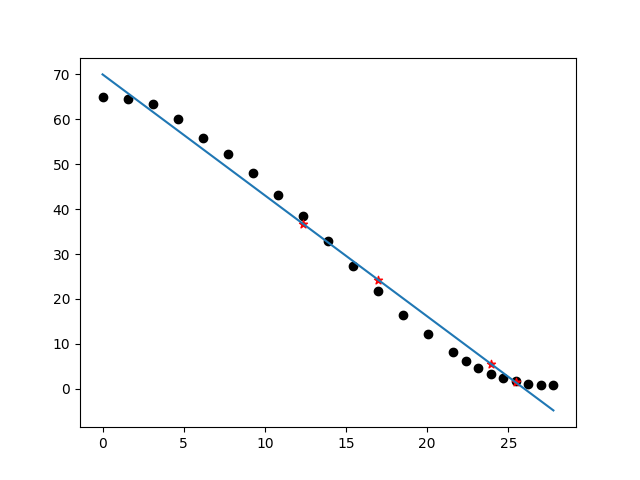
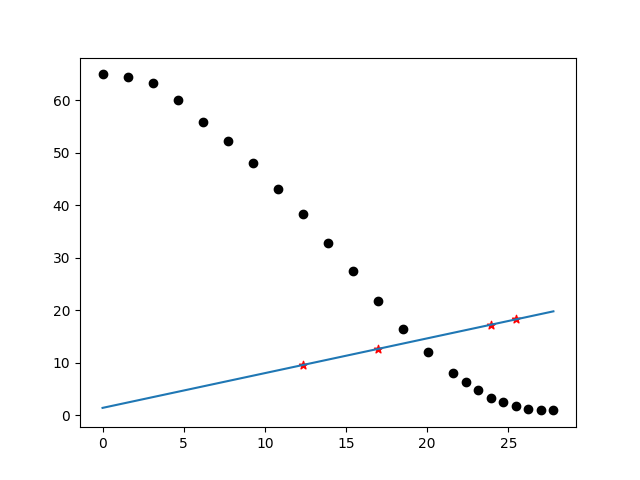
AOA v2.5.4.3: sinx, ploy 3 theta

diff --git a/AOA/C_Predict_LinearXMultiple_3.py b/AOA/C_Predict_LinearXMultiple_3.py
@@ -4,7 +4,7 @@ from AOA.generic.C_Predict_LinearRegressionXMultiple import PredictLR
 if __name__ == '__main__':
     base_file_name = 'E0a.txt_shuffle.csv'
     theta_file_suffix = 'lr_x_theta.csv'
-    num_of_variables = 2
+    num_of_variables = 3
     linear_regression_instance = LinearRegressionXMultiple(base_file_name=base_file_name, theta_file_suffix=theta_file_suffix,
                                                    num_of_variables=num_of_variables)
     predict = PredictLR(base_file_name=base_file_name, dataset_index=0, theta_file_suffix=theta_file_suffix,

diff --git a/AOA/B_Process_LinearRegressionXMultiple_3.py b/AOA/B_Process_LinearRegressionXMultiple_3.py
@@ -15,5 +15,5 @@ if __name__ == '__main__':
                       dataset_index=0, theta_file_suffix=theta_file_suffix,
                       num_of_variables=num_of_variables,
                       linear_regression_instance=linear_regression_instance,
-                      learning_rate=0.000000001, eps=0.00633)
+                      learning_rate=0.000000002, eps=0.00633)
     process.process()

diff --git a/AOA/B_Process_LinearRegressionSinX.py b/AOA/B_Process_LinearRegressionSinX.py
@@ -9,5 +9,5 @@ if __name__ == '__main__':
     process = Process(base_file_name=base_file_name,
                       dataset_index=0, sinx_file_suffix=sinx_file_suffix,
                       linear_regression_instance=linear_regression_instance,
-                      learning_rate=0.00000003, eps=0.0001)
+                      learning_rate=0.00000006, eps=0.0001)
     process.process()
